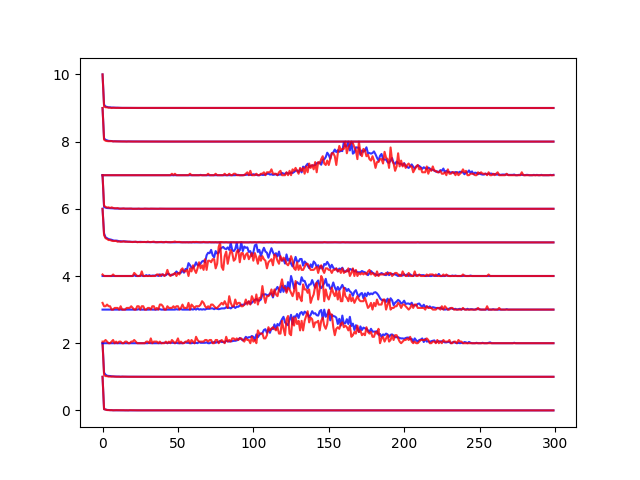
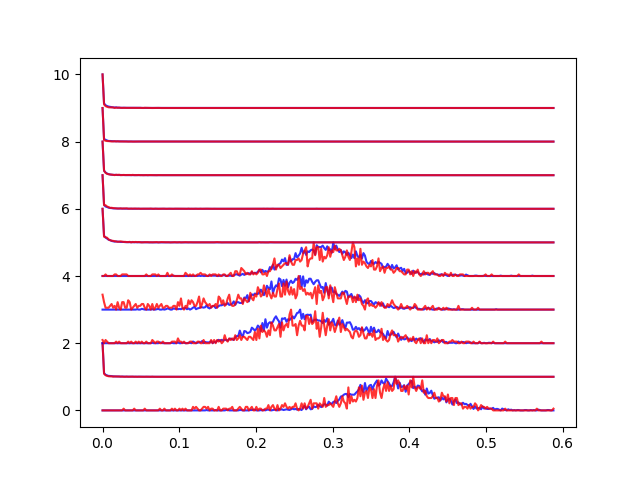
graph improvement + displaying probs

diff --git a/play_feats.py b/play_feats.py
@@ -17,7 +17,7 @@ def readfile(fn):
         pn = int(parts[0])
 
         tmp = []
-        for i in range(512):
+        for i in range(len(parts)-1):
             t = float(parts[1+i])
             tmp.append(t)
         H.append(tmp)
@@ -42,7 +42,10 @@ def getcounts(vals, Y, minval, maxval, numclusters):
 H,Y,Yc = readfile('feats_train.txt')
 H_t,Y_t,Yc_t = readfile('feats_test.txt')
 
-for i in range(512):
+#H,Y,Yc = readfile('probs_train.txt')
+#H_t,Y_t,Yc_t = readfile('probs_test.txt')
+
+for i in range(len(H[0])):
     vals_train = H[:,i]
     vals_test = H_t[:,i]
     
@@ -56,6 +59,6 @@ for i in range(512):
     counts_test = getcounts(vals_test, Y_t, minval, maxval, numclusters)    
     
     for l in range(10):
-        plt.plot([i for i in range(numclusters)], counts_train[l,:] + l, 'b', alpha = 0.8)
-        plt.plot([i for i in range(numclusters)], counts_test[l,:] + l, 'r', alpha = 0.8)
+        plt.plot([minval + (i + 0.0) *(maxval-minval) / (numclusters + 0.0) for i in range(numclusters)], counts_train[l,:] + l, 'b', alpha = 0.8)
+        plt.plot([minval + (i + 0.0) *(maxval-minval) / (numclusters + 0.0) for i in range(numclusters)], counts_test[l,:] + l, 'r', alpha = 0.8)
     plt.show()

diff --git a/README.md b/README.md
@@ -50,6 +50,14 @@ Looking at features separately and their values for different classes (python3 p
 
 ![feat_4](./results/feat_new_4.png)
 
+Same for probabilities:
+
+![probs_0](./results/probs_new_0.png)
+
+![probs_1](./results/probs_new_1.png)
+
+![probs_2](./results/probs_new_2.png)
+
 Info about system:
 
 Python 3.8.5, GCC 9.3.0, Pytorch 1.7.0+cu110, NVIDIA-SMI 455.38, Driver Version: 455.38, CUDA Version: 11.1, Ubuntu 20.04.1 LTS, GEFORCE RTX 3090
